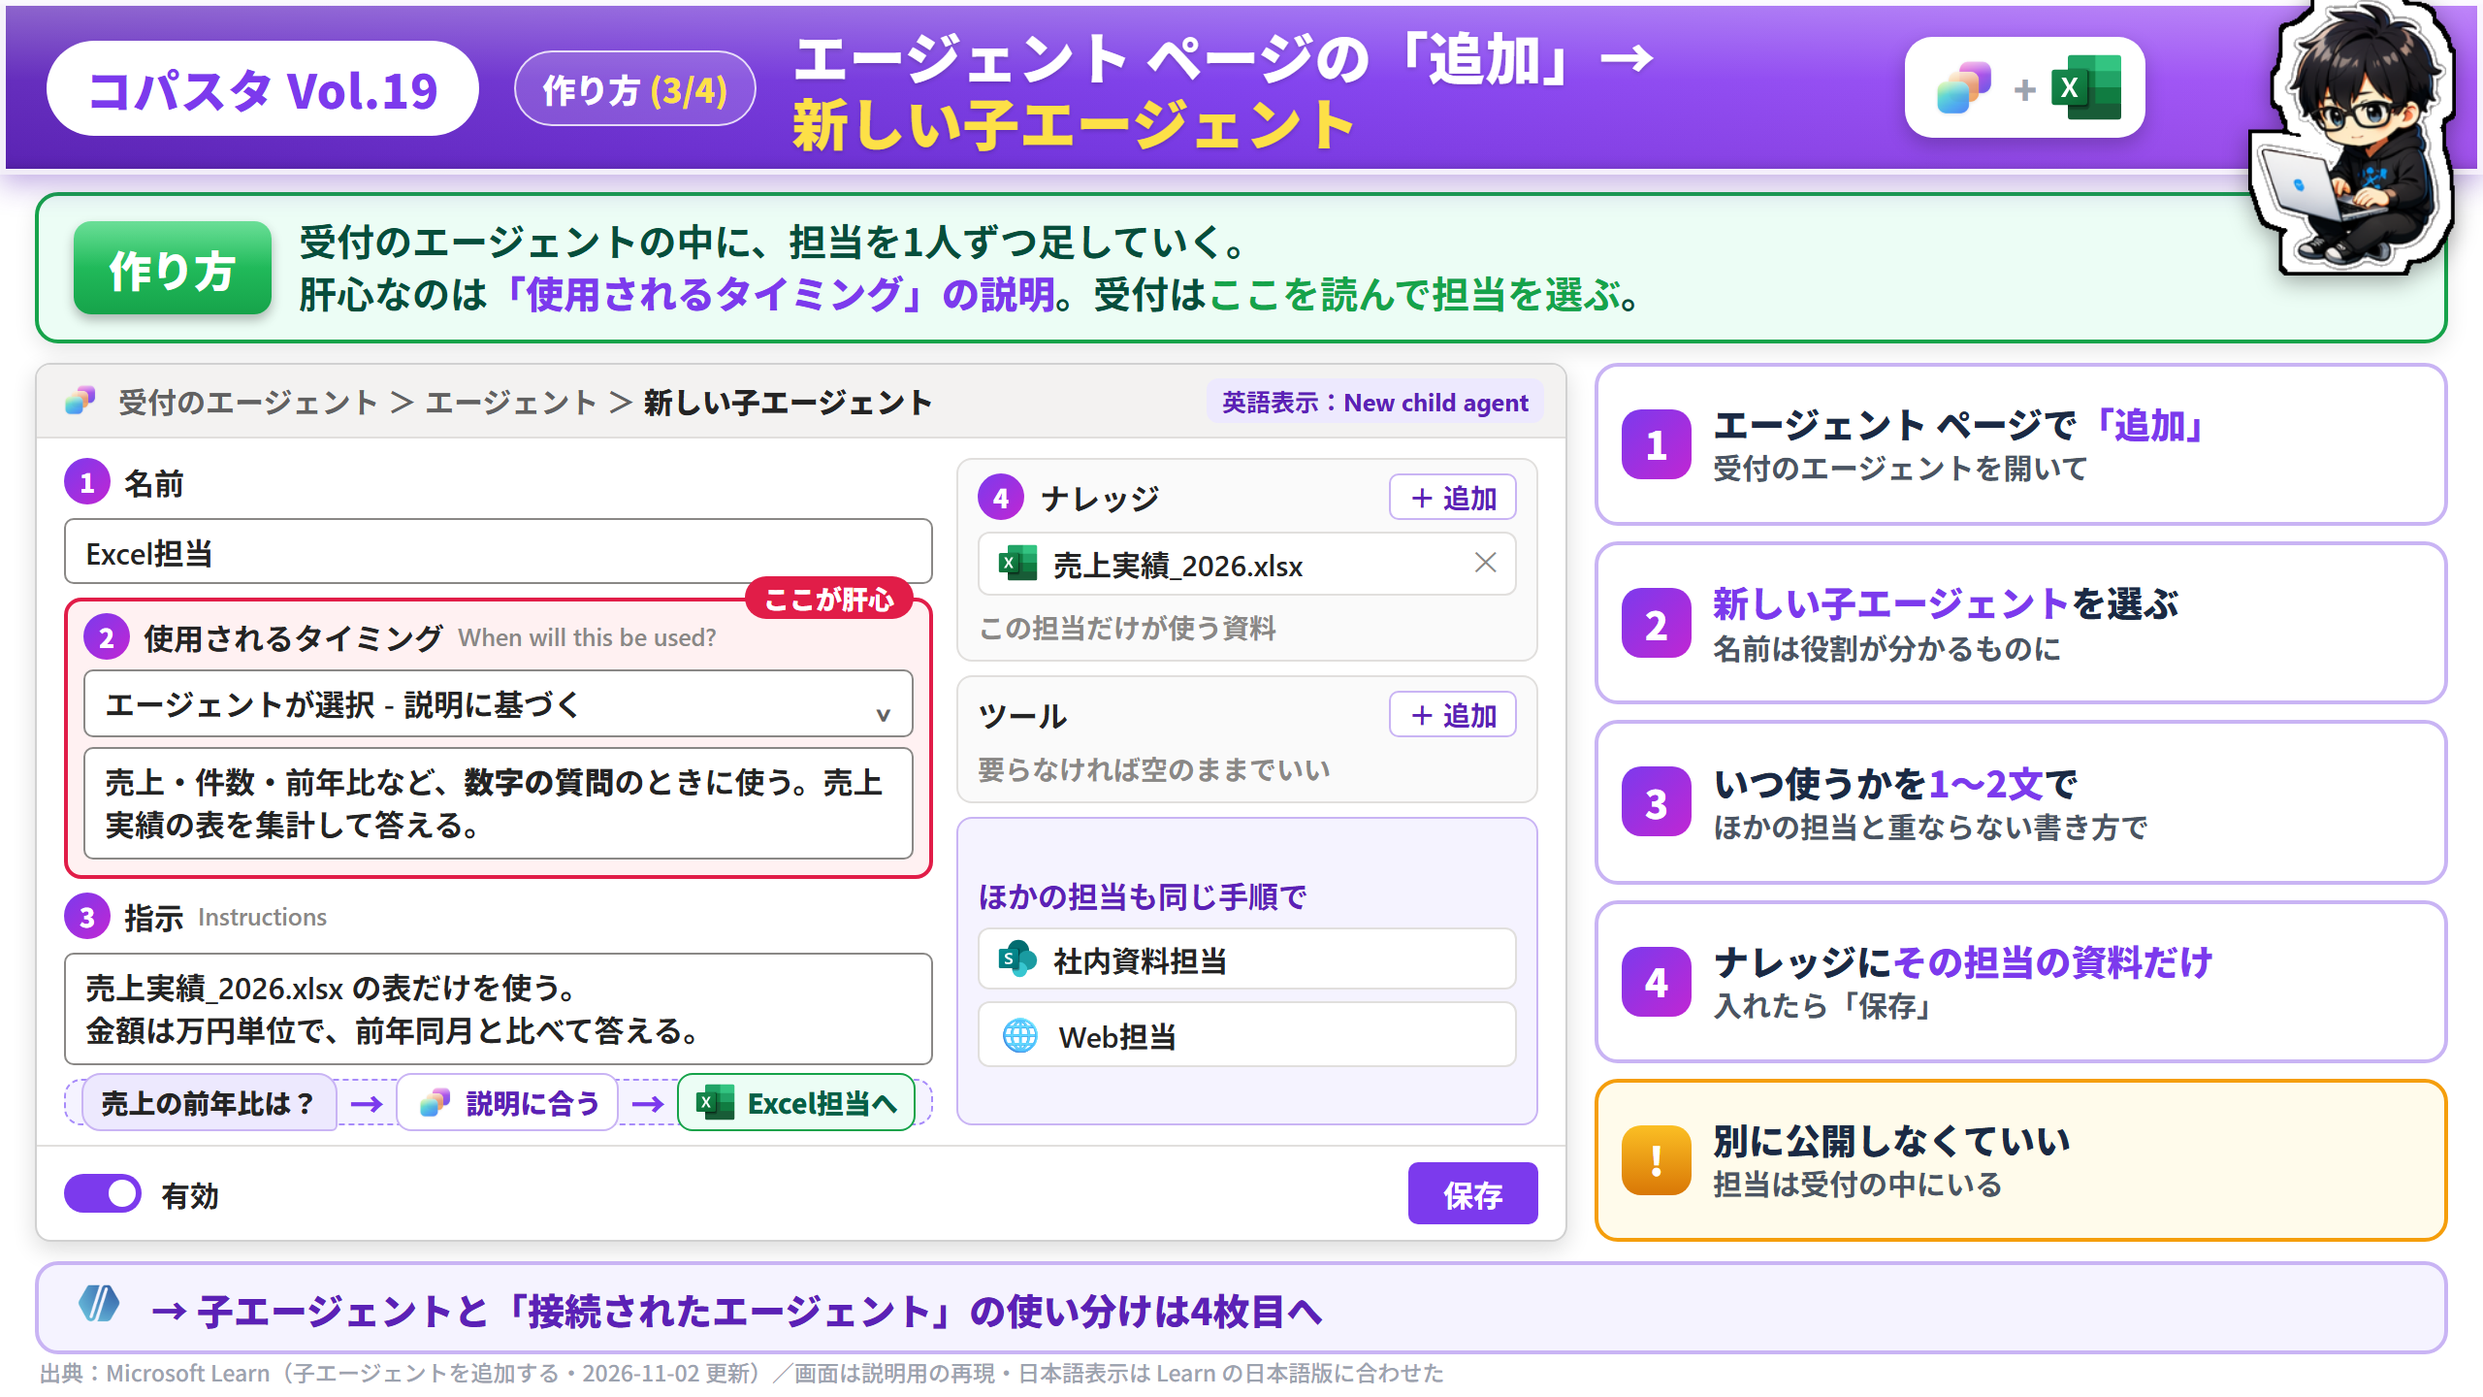
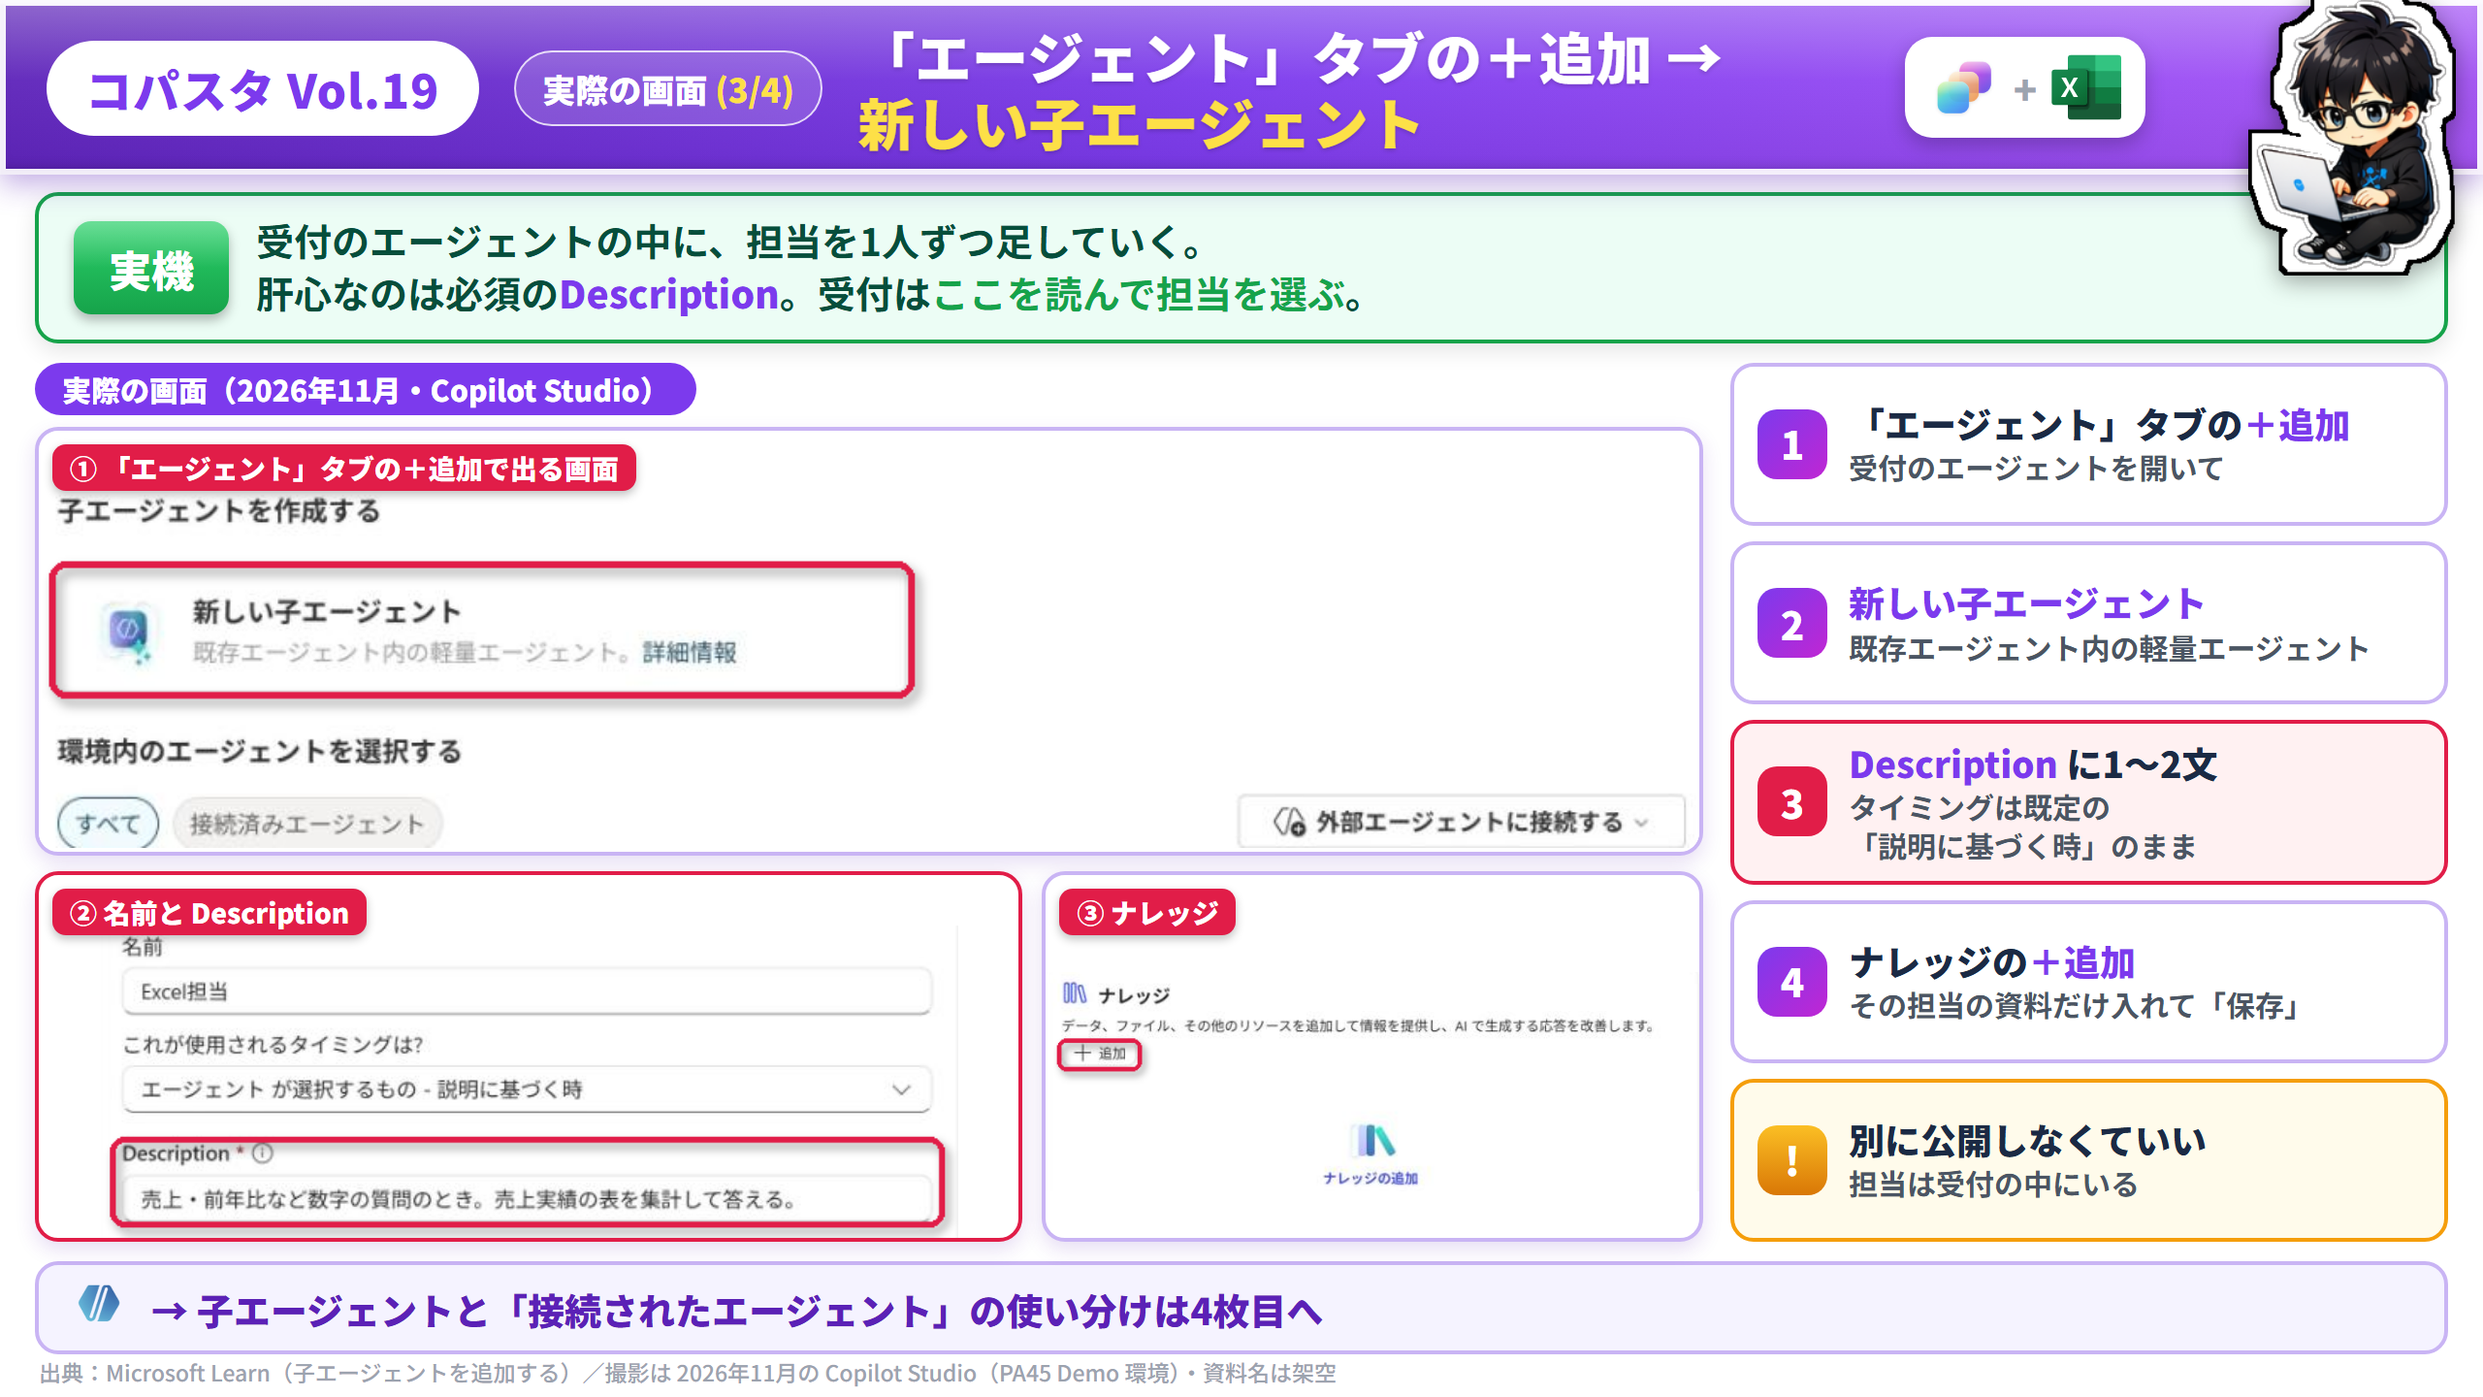
コパスタ Vol.19 の3枚目を実機スクショ（新しい子エージェント）に差し替え

diff --git a/assets/x/html/cs-vol-19c/index.html b/assets/x/html/cs-vol-19c/index.html
@@ -3,49 +3,27 @@
 <head>
 <meta charset="UTF-8">
 <meta name="viewport" content="width=1280, initial-scale=1">
-<title>コパスタ Vol.19-3 作り方：新しい子エージェント</title>
+<title>コパスタ Vol.19-3 実際の画面：新しい子エージェント</title>
 <link rel="preconnect" href="https://fonts.googleapis.com">
 <link rel="preconnect" href="https://fonts.gstatic.com" crossorigin>
 <link href="https://fonts.googleapis.com/css2?family=Noto+Sans+JP:wght@400;500;700;900&display=swap" rel="stylesheet">
 <link rel="stylesheet" href="../_base/cs-base.css">
 <style>
   .body{gap:14px;padding-bottom:0;}
-  .mock{flex:0 0 790px;max-width:790px;min-width:0;min-height:0;display:flex;flex-direction:column;}
-  .win{flex:1;min-height:0;display:flex;flex-direction:column;}
-  .wh .crumb{font-size:15px;font-weight:600;color:#616161;}
-  .wh .crumb b{color:#242424;}
-  .wh .tag{margin-left:auto;font-size:12.5px;font-weight:700;color:#5B21B6;background:#EDE9FE;border-radius:6px;padding:2px 8px;}
-  .wb{flex:1;min-height:0;display:flex;gap:12px;padding:10px 14px !important;}
-  .fcol{flex:1;min-width:0;display:flex;flex-direction:column;gap:7px;}
-  .fl{font-size:15.5px;font-weight:700;color:#242424;display:flex;align-items:center;gap:7px;}
-  .fl small{font-size:12.5px;font-weight:600;color:#8A8886;}
-  .inp{border:1.5px solid #8A8886;border-radius:5px;padding:5px 10px;font-size:15.5px;font-weight:600;background:#fff;}
-  .dd{display:flex;align-items:center;justify-content:space-between;}
-  .dd:after{content:"⌄";font-size:16px;color:#616161;}
-  .ta{border:1.5px solid #8A8886;border-radius:5px;padding:6px 10px;font-size:15.5px;font-weight:600;line-height:1.42;background:#fff;}
-  .hot{position:relative;border:2.5px solid #E11D48;border-radius:9px;padding:6px 8px 8px;background:#FFF1F2;}
-  .hot .bdg{position:absolute;right:8px;top:-13px;font-size:13.5px;font-weight:900;color:#fff;background:#E11D48;border-radius:999px;padding:1px 10px;
-    font-family:"Noto Sans JP",sans-serif;}
-  .num{display:inline-flex;width:24px;height:24px;border-radius:50%;background:linear-gradient(135deg,#7C3AED,#C026D3);color:#fff;font-size:13.5px;font-weight:900;
-    align-items:center;justify-content:center;font-family:"Noto Sans JP",sans-serif;flex:0 0 auto;}
-  .sec{border:1px solid #E1DFDD;border-radius:8px;padding:7px 10px;background:#FAFAFA;display:flex;flex-direction:column;gap:6px;}
-  .sec .sh{display:flex;align-items:center;gap:8px;font-size:15.5px;font-weight:700;}
-  .sec .add{margin-left:auto;font-size:14px;font-weight:700;color:#5B21B6;border:1px solid #C9B4F4;border-radius:5px;padding:1px 9px;background:#fff;}
-  .chipf{display:flex;align-items:center;gap:7px;font-size:15px;font-weight:600;background:#fff;border:1px solid #E1DFDD;border-radius:6px;padding:4px 9px;}
-  .chipf .x{margin-left:auto;color:#8A8886;}
-  .empty{font-size:14px;font-weight:600;color:#8A8886;}
-  .foot{flex:0 0 auto;display:flex;align-items:center;gap:10px;padding:8px 14px;border-top:1px solid #E1DFDD;}
-  .tog{width:40px;height:20px;border-radius:999px;background:#7C3AED;position:relative;}
-  .tog:after{content:"";position:absolute;right:3px;top:3px;width:14px;height:14px;border-radius:50%;background:#fff;}
-  .foot .lb{font-size:15px;font-weight:700;}
-  .save{margin-left:auto;font-size:15.5px;font-weight:700;color:#fff;background:#7C3AED;border-radius:5px;padding:5px 18px;}
-  .judge{flex:1;min-height:0;display:flex;align-items:center;justify-content:center;gap:6px;flex-wrap:nowrap;background:#F5F3FF;border:1.5px dashed #A78BFA;border-radius:9px;padding:6px 8px;
-    font-family:"Noto Sans JP",sans-serif;}
-  .judge span{display:flex;align-items:center;gap:5px;font-size:14px;font-weight:800;white-space:nowrap;}
-  .jq{background:#EDE9FE;border:1px solid #C9B4F4;border-radius:10px 10px 3px 10px;padding:4px 9px;}
-  .jm{background:#fff;border:1px solid #C9B4F4;border-radius:8px;padding:3px 8px;color:#5B21B6;}
-  .jr{background:#ECFDF5;border:1.5px solid #16A34A;border-radius:8px;padding:3px 8px;color:#065F46;}
-  .ja{color:#7C3AED;font-size:18px !important;font-weight:900;}
+  .shotcol{flex:0 0 860px;max-width:860px;min-width:0;min-height:0;display:flex;flex-direction:column;gap:6px;}
+  .real{flex:0 0 auto;align-self:flex-start;font-size:15px;font-weight:900;color:#fff;background:var(--cs);border-radius:999px;padding:3px 14px;}
+  .shots{flex:1;min-height:0;display:flex;flex-direction:column;gap:8px;}
+  .top{flex:0 0 auto;padding-top:26px;}
+  .top img{height:auto;}
+  .row2{flex:1;min-height:0;display:flex;gap:10px;}
+  .row2 .big{flex:1.5;padding-top:26px;}
+  .row2 .shot:not(.big){flex:1;padding-top:26px;}
+  .shot{flex:1;min-height:0;min-width:0;background:#fff;border:2.5px solid var(--cs-line);border-radius:12px;overflow:hidden;display:flex;
+    align-items:center;justify-content:center;box-shadow:0 4px 10px rgba(91,33,182,.15);position:relative;}
+  .shot img{width:100%;height:100%;object-fit:contain;display:block;}
+  .lab{position:absolute;left:7px;top:7px;font-size:14px;font-weight:900;color:#fff;background:#E11D48;border-radius:7px;padding:2px 9px;
+    box-shadow:0 2px 5px rgba(0,0,0,.25);z-index:2;}
+  .shot.big{border-color:#E11D48;}
   .steps{flex:1;min-width:0;display:flex;flex-direction:column;gap:8px;}
   .st{flex:1;min-height:0;display:flex;gap:11px;align-items:center;background:#fff;border:2.5px solid var(--cs-line);border-radius:12px;padding:6px 12px;}
   .st .n{flex:0 0 auto;width:36px;height:36px;border-radius:10px;color:#fff;display:flex;align-items:center;justify-content:center;font-weight:900;font-size:20px;
@@ -53,6 +31,8 @@
   .st .t{font-size:18.5px;font-weight:900;color:var(--navy);line-height:1.3;}
   .st .t b{color:var(--cs);}
   .st .t small{display:block;font-size:15px;font-weight:700;color:#4B5563;line-height:1.36;margin-top:1px;}
+  .st.key{border-color:#E11D48;background:#FFF1F2;}
+  .st.key .n{background:#E11D48;}
   .st.hint{background:#FFFBEB;border-color:#F59E0B;}
   .st.hint .n{background:linear-gradient(180deg,#FBBF24,#D97706);}
   .nextbar{flex:0 0 auto;margin:10px 18px 22px;display:flex;align-items:center;gap:12px;background:var(--cs-bg);border:2px solid var(--cs-line);
@@ -68,74 +48,40 @@ const A="../../pptx/_assets/";
 document.getElementById('slide').innerHTML=`
   <div class="titlebar">
     <div class="vol-pill">コパスタ Vol.19</div>
-    <div class="part-pill">作り方 <b>(3/4)</b></div>
-    <div class="title-text">エージェント ページの「追加」→<br><span class="q">新しい子エージェント</span></div>
+    <div class="part-pill">実際の画面 <b>(3/4)</b></div>
+    <div class="title-text">「エージェント」タブの＋追加 →<br><span class="q">新しい子エージェント</span></div>
     <div class="ibadge"><img src="${A}icons/cs_logo.png" alt=""><span class="pl">+</span><img src="${A}icons/ms/excel.svg" alt=""></div>
     <img class="title-chara" src="${A}chara/chara_laptop_g.png" alt="">
   </div>
 
   <div class="concl">
-    <div class="chip">作り方</div>
+    <div class="chip">実機</div>
     <div class="txt">受付のエージェントの中に、担当を1人ずつ足していく。<br>
-      肝心なのは<b>「使用されるタイミング」の説明</b>。受付は<em>ここを読んで担当を選ぶ</em>。</div>
+      肝心なのは必須の<b>Description</b>。受付は<em>ここを読んで担当を選ぶ</em>。</div>
   </div>
 
   <div class="body">
-    <div class="mock">
-      <div class="win seg">
-        <div class="wh"><img class="msi" src="${A}icons/cs_logo.png" alt="" style="width:22px;height:22px">
-          <span class="crumb">受付のエージェント ＞ エージェント ＞ <b>新しい子エージェント</b></span><span class="tag">英語表示：New child agent</span></div>
-        <div class="wb">
-          <div class="fcol">
-            <div class="fl"><span class="num">1</span>名前</div>
-            <div class="inp">Excel担当</div>
-            <div class="hot">
-              <span class="bdg">ここが肝心</span>
-              <div class="fl"><span class="num">2</span>使用されるタイミング <small>When will this be used?</small></div>
-              <div class="inp dd" style="margin:5px 0">エージェントが選択 - 説明に基づく</div>
-              <div class="ta">売上・件数・前年比など、<b>数字の質問</b>のときに使う。売上実績の表を集計して答える。</div>
-            </div>
-            <div class="fl"><span class="num">3</span>指示 <small>Instructions</small></div>
-            <div class="ta">売上実績_2026.xlsx の表だけを使う。<br>金額は万円単位で、前年同月と比べて答える。</div>
-            <div class="judge">
-              <span class="jq">売上の前年比は？</span>
-              <span class="ja">→</span>
-              <span class="jm"><img class="msi" src="${A}icons/cs_logo.png" alt="" style="width:22px;height:22px">説明に合う</span>
-              <span class="ja">→</span>
-              <span class="jr"><img class="msi" src="${A}icons/ms/excel.svg" alt="" style="width:22px;height:22px">Excel担当へ</span>
-            </div>
-          </div>
-          <div class="fcol" style="flex:0 0 300px">
-            <div class="sec">
-              <div class="sh"><span class="num">4</span>ナレッジ<span class="add">＋ 追加</span></div>
-              <div class="chipf"><img class="msi" src="${A}icons/ms/excel.svg" alt="" style="width:22px;height:22px">売上実績_2026.xlsx<span class="x">✕</span></div>
-              <div class="empty">この担当だけが使う資料</div>
-            </div>
-            <div class="sec">
-              <div class="sh">ツール<span class="add">＋ 追加</span></div>
-              <div class="empty">要らなければ空のままでいい</div>
-            </div>
-            <div class="sec" style="flex:1;justify-content:center;background:#F5F3FF;border-color:#C9B4F4">
-              <div class="sh" style="color:#5B21B6">ほかの担当も同じ手順で</div>
-              <div class="chipf"><img class="msi" src="${A}icons/ms/sharepoint.svg" alt="" style="width:22px;height:22px">社内資料担当</div>
-              <div class="chipf"><span style="font-size:18px">🌐</span>Web担当</div>
-            </div>
-          </div>
+    <div class="shotcol">
+      <div class="real">実際の画面（2026年11月・Copilot Studio）</div>
+      <div class="shots">
+        <div class="shot top"><span class="lab">① 「エージェント」タブの＋追加で出る画面</span><img src="shot-add.png" alt=""></div>
+        <div class="row2">
+          <div class="shot big"><span class="lab">② 名前と Description</span><img src="shot-details.png" alt=""></div>
+          <div class="shot"><span class="lab">③ ナレッジ</span><img src="shot-knowledge.png" alt=""></div>
         </div>
-        <div class="foot"><span class="tog"></span><span class="lb">有効</span><span class="save">保存</span></div>
       </div>
     </div>
     <div class="steps">
-      <div class="st"><span class="n">1</span><span class="t">エージェント ページで<b>「追加」</b><small>受付のエージェントを開いて</small></span></div>
-      <div class="st"><span class="n">2</span><span class="t"><b>新しい子エージェント</b>を選ぶ<small>名前は役割が分かるものに</small></span></div>
-      <div class="st"><span class="n">3</span><span class="t">いつ使うかを<b>1〜2文</b>で<small>ほかの担当と重ならない書き方で</small></span></div>
-      <div class="st"><span class="n">4</span><span class="t">ナレッジに<b>その担当の資料だけ</b><small>入れたら「保存」</small></span></div>
+      <div class="st"><span class="n">1</span><span class="t">「エージェント」タブの<b>＋追加</b><small>受付のエージェントを開いて</small></span></div>
+      <div class="st"><span class="n">2</span><span class="t"><b>新しい子エージェント</b><small>既存エージェント内の軽量エージェント</small></span></div>
+      <div class="st key"><span class="n">3</span><span class="t"><b>Description</b> に1〜2文<small>タイミングは既定の<br>「説明に基づく時」のまま</small></span></div>
+      <div class="st"><span class="n">4</span><span class="t">ナレッジの<b>＋追加</b><small>その担当の資料だけ入れて「保存」</small></span></div>
       <div class="st hint"><span class="n">!</span><span class="t">別に公開しなくていい<small>担当は受付の中にいる</small></span></div>
     </div>
   </div>
 
   <div class="nextbar"><img class="msi" src="${A}icons/ms/agent.png" alt="">→ 子エージェントと「接続されたエージェント」の使い分けは4枚目へ</div>
-  <div class="src2">出典：Microsoft Learn（子エージェントを追加する・2026-11-02 更新）／画面は説明用の再現・日本語表示は Learn の日本語版に合わせた</div>
+  <div class="src2">出典：Microsoft Learn（子エージェントを追加する）／撮影は 2026年11月の Copilot Studio（PA45 Demo 環境）・資料名は架空</div>
 `;
 </script>
 </body>
